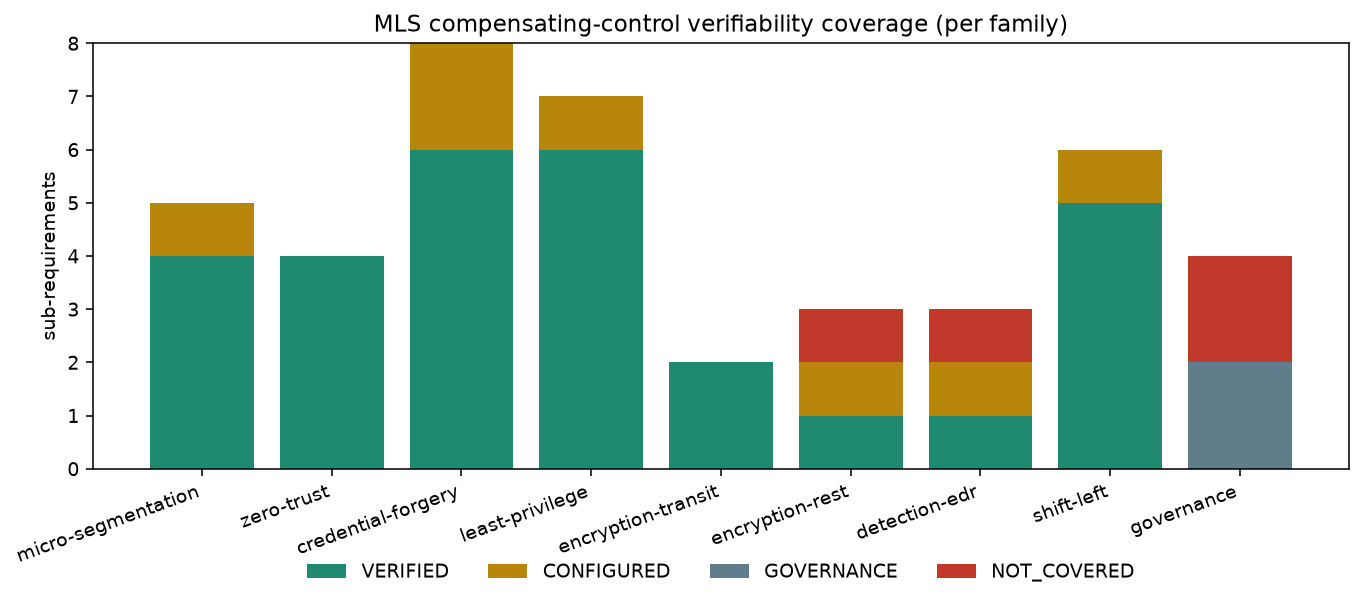
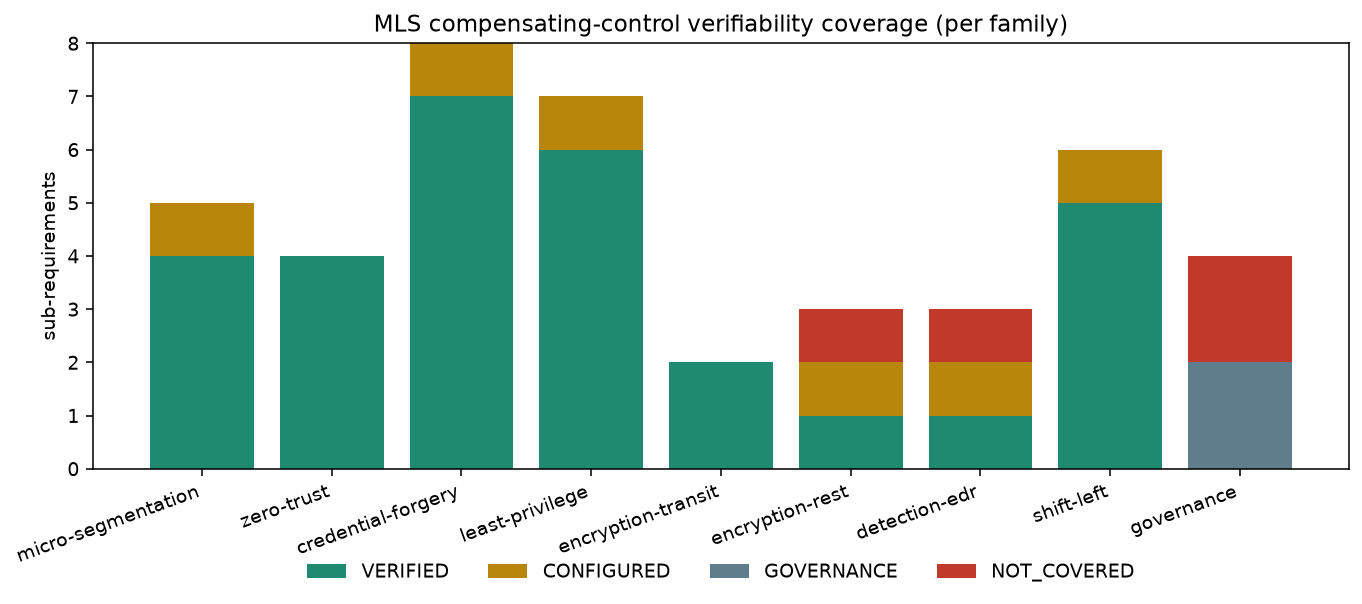
docs: propagate the 72%->75% headline across all surfaces (ID8 now VERIFIED)
Coordinated number ripple so nothing is left stale (the consistency bug class): 72%->75%,
29/40->30/40, 29/42=69%->30/42=71%, VERIFIED 29->30, CONFIGURED 7->6, gap 28%->25% — across
README, index, slides, the one-pager (HTML+PDF, bar width too), social-card (SVG+PNG, bar
width), why-trust-this, nhi, docs/README, evaluation-coverage, labs/m8, and the coverage.png
chart. evaluation-coverage keeps the progression history (65%->72%->75%). Verified by grep:
no stale 72%/29-40/CONFIGURED-7 remain (only the intentional history line). mkdocs --strict green.

Changed region(s): [[0.2775, 0.149, 0.4009, 0.2682]]

diff --git a/presentation/cloudsec-onepager.html b/presentation/cloudsec-onepager.html
@@ -90,13 +90,13 @@ footer{margin-top:52px;font:400 11.5px/1.7 var(--mono);color:var(--faint)}
   <hr>
 
   <div class="ledger">
-    <span class="k">coverage</span><span class="bar"><i style="width:72%"></i></span><span class="v">72%</span><span class="d">29/40 — 검증가능-as-code</span>
+    <span class="k">coverage</span><span class="bar"><i style="width:75%"></i></span><span class="v">75%</span><span class="d">30/40 — 검증가능-as-code</span>
     <span class="k">verify</span><span class="bar"><i style="width:100%"></i></span><span class="v">21/21</span><span class="d">라이브, 전 계층 enforcement</span>
     <span class="k">cedar</span><span class="bar"><i style="width:100%"></i></span><span class="v">8/8·17/17</span><span class="d">인가 + 에이전트 위임 (반증가능)</span>
     <span class="k">rebac</span><span class="bar"><i style="width:100%"></i></span><span class="v">11/11</span><span class="d">OpenFGA 관계 테스트</span>
     <span class="k">checkov</span><span class="bar"><i style="width:100%"></i></span><span class="v">452/0</span><span class="d">shift-left · 실 CVE 1건 포착→수정</span>
   </div>
-  <p class="note">// 21/21은 기능 회귀 스위트(분모 없는 측정 아님) · 갭 28%(CONFIGURED 7·GOVERNANCE 2·NOT-COVERED 4)는 행 단위 공개.</p>
+  <p class="note">// 21/21은 기능 회귀 스위트(분모 없는 측정 아님) · 갭 25%(CONFIGURED 6·GOVERNANCE 2·NOT-COVERED 4)는 행 단위 공개.</p>
 
   <hr>
 
@@ -111,7 +111,7 @@ footer{margin-top:52px;font:400 11.5px/1.7 var(--mono);color:var(--faint)}
     <p class="lead">"안전하다"가 아니라 — <span style="color:var(--acc)">갭을 공개한다.</span></p>
     <dl>
       <dt>재현 증거</dt><dd>감사자가 부작용 없는 dry-run으로 <b>직접</b> 거부/허용을 확인.</dd>
-      <dt>명시된 갭</dt><dd>미검증 28%를 행 단위로 공개 — 두루뭉술하지 않다.</dd>
+      <dt>명시된 갭</dt><dd>미검증 25%를 행 단위로 공개 — 두루뭉술하지 않다.</dd>
       <dt>정직성</dt><dd>요청자 JWT 미강제 행을 <b>스스로 추가해 헤드라인을 낮췄다</b> — 편한 숫자 대신 참값.</dd>
     </dl>
   </div>

diff --git a/docs/evaluation-coverage.md b/docs/evaluation-coverage.md
@@ -31,7 +31,7 @@
 
 **헤드라인 메트릭:**
 
-> ✅ **검증가능-as-code 커버리지:** **워크로드 적용가능 sub-requirement의 72% (29/40)** 가 코드로 검증된다. (거버넌스 포함 전체로는 29/42 = 69%.) 범주 분포: **VERIFIED 29 · CONFIGURED 7 · GOVERNANCE 2 · NOT-COVERED 4.**
+> ✅ **검증가능-as-code 커버리지:** **워크로드 적용가능 sub-requirement의 75% (30/40)** 가 코드로 검증된다. (거버넌스 포함 전체로는 30/42 = 71%.) 범주 분포: **VERIFIED 30 · CONFIGURED 6 · GOVERNANCE 2 · NOT-COVERED 4.**
 
 ![MLS verifiability coverage per family](assets/coverage.png)
 
@@ -52,10 +52,10 @@
 → 전체 Table 1(42행, sub-requirement→출처→범주→verify 라인/갭)은 [`mls-coverage.csv`](mls-coverage.csv).
 
 ## 논의 (정직한 갭이 곧 기여)
-- **VERIFIED 72%** 는 "워크로드 보상통제를 *어디까지 코드로 증명할 수 있는가*"의 정직한 상한에
+- **VERIFIED 75%** 는 "워크로드 보상통제를 *어디까지 코드로 증명할 수 있는가*"의 정직한 상한에
   가깝다 — 망·인가·런타임·암호화(전송 tcpdump 캡처 포함)는 증명되고, **데이터 거버넌스(C/S/O
   분류·DLP·SIEM)는 워크로드 계층 밖**이다. 이 경계를 수치로 보이는 것이 핵심.
-- **라이브 클러스터 세션 — ID6·ID7·SL6 승격으로 헤드라인 65%→72%.** kind+Cilium+Tetragon+Kyverno를
+- **라이브 클러스터 세션 — ID6·ID7·SL6 승격으로 헤드라인 65%→72%; 이후 ID8(JWT enforce 라이브, scripts/verify-jwt-enforce)로 72%→75%.** kind+Cilium+Tetragon+Kyverno를
   띄워 세 통제를 라이브로 증명했다: **ID6**(SA 토큰 미마운트 — web/api 토큰 경로 ABSENT + 3티어
   automount=false), **ID7**(Kyverno SA-use ClusterPolicy가 *다른* 네임스페이스에서 cross-ns DENY —
   `scripts/verify-kyverno`), **SL6**(Kyverno verifyImages가 cosign-signed→ADMIT / unsigned→DENY —
@@ -70,7 +70,7 @@
   분자는 그대로·분모만 +1이라 *그 단계에선 비율이 떨어졌다*(부풀리기의 반대). VERIFIED 승격 조건:
   Bearer 필수화 + `unauth→401`을 라이브 스위트에서 단언. 프로덕션 OAuth 2.1 RS/JWKS·RFC 8693 OBO는
   [authorization-model](authorization-model.md) 문서 매핑(doc-only).
-- **CONFIGURED 7** 은 "있지만 (라이브로) 증명 안 됨" — 가장 위험한 범주(감사 시 "있다"고 주장하나
+- **CONFIGURED 6** 은 "있지만 (라이브로) 증명 안 됨" — 가장 위험한 범주(감사 시 "있다"고 주장하나
   시행 미증명). 남은 타깃은 SPIFFE 시행 테스트(ID4)·etcd 키회전 자동화(ER2)·요청자 인증 라이브 강제(ID8).
 - **GOVERNANCE 2 / NOT-COVERED 4** — 남은 NOT_COVERED는 관리형 KMS/HSM(ER3)·광역 런타임룰(ED3)·
   DLP(GV3)·SIEM(GV4)으로 *이 레퍼런스의 범위 밖*이거나 전사 통제다. (직전까지 NOT_COVERED였던 ID7 SA-use

diff --git a/index.md b/index.md
@@ -8,7 +8,7 @@ hide:
 
 검증 가능한 다층보안(MLS) 보상통제를 코드로 — 한 요청이 신원·세분화·인가·암호화·탐지를 전부 통과해야 데이터에 닿고, 막힌다는 사실을 매번 라이브로 증명한다.
 
-[라이브 검증 21/21](docs/evaluation-coverage.md) · [검증가능 커버리지 72%](docs/evaluation-coverage.md) · [적대적 검증: CRITICAL 1 발견·수정](THREAT_MODEL.md) · 무료 로컬 $0
+[라이브 검증 21/21](docs/evaluation-coverage.md) · [검증가능 커버리지 75%](docs/evaluation-coverage.md) · [적대적 검증: CRITICAL 1 발견·수정](THREAT_MODEL.md) · 무료 로컬 $0
 
 [여기서 시작 — M0 재구현 (클러스터 불필요·Python만)](labs/m0/README.md) · [트랙 전체 보기](labs/README.md)
 
@@ -74,7 +74,7 @@ flowchart TB
 ## 기여 (contributions)
 
 - **규제 → 통제 매핑** — FSC 망분리 완화/MLS 보상통제 6종을 NIST SP 800-207·ISMS-P·검증 항목에 1:1 매핑. [→ MLS 매핑](docs/financial-mls-mapping.md)
-- **검증가능성 기준 + 커버리지 측정** — "각 규제 요구는 시행을 증명하는 실행 테스트에 대응돼야 한다"를 기준으로, MLS 보상통제의 72%가 코드로 검증가능함을 정량화(갭 공개). [→ 평가](docs/evaluation-coverage.md)
+- **검증가능성 기준 + 커버리지 측정** — "각 규제 요구는 시행을 증명하는 실행 테스트에 대응돼야 한다"를 기준으로, MLS 보상통제의 75%가 코드로 검증가능함을 정량화(갭 공개). [→ 평가](docs/evaluation-coverage.md)
 - **적대적 검증** — LLM 멀티에이전트 재검토가 자체 SA-use 정책의 실제 우회(CRITICAL)를 발견 → 수정 → 라이브 재검증. 잔여위험 명시.
 - **인가 흐름 정렬 + 프런티어** — RBAC+ABAC 하이브리드 · policy-as-code · 지속평가. AI-에이전트 위임(Cedar)·ReBAC(OpenFGA)을 실행 데모로 충족(NHI 생애주기 포함). [→ 인가 모델](docs/authorization-model.md)
 
@@ -84,7 +84,7 @@ flowchart TB
 
 | 항목 | 결과 |
 |------|------|
-| **검증가능성 커버리지 (정량 헤드라인)** | 워크로드 적용가능 MLS 보상통제 sub-requirement의 **72% (29/40)** 가 *코드로 검증* — 갭(CONFIGURED 7·NOT-COVERED 4·GOVERNANCE 2)을 정직하게 공개. [→ 평가](docs/evaluation-coverage.md) |
+| **검증가능성 커버리지 (정량 헤드라인)** | 워크로드 적용가능 MLS 보상통제 sub-requirement의 **75% (30/40)** 가 *코드로 검증* — 갭(CONFIGURED 6·NOT-COVERED 4·GOVERNANCE 2)을 정직하게 공개. [→ 평가](docs/evaluation-coverage.md) |
 | 라이브 방어심층 검증 (기능 회귀 스위트) | **21 / 21 PASS** — 차단/허용 enforcement 전부. WireGuard는 api/db를 다른 노드로 강제(podAntiAffinity)하고 tcpdump로 선상 WG 암호문(UDP/51871, 25s 윈도우) + 평문 0 확인(`scripts/capture-wg.sh`) |
 | Cedar 인가 단위테스트 | **8 / 8** (코어) · **17 / 17** AI-에이전트 위임(confused-deputy 차단 + ASI08 위임깊이 cap·홉별 클램프·출처 게이트; P2·P3·P5·P6·P7 mutation으로 반증가능) |
 | ReBAC 관계 테스트 (OpenFGA) | **11 / 11** `fga model test` + 라이브 `/check` 11/11 — 인가 모델의 ReBAC 갭을 실행으로 충족 |

diff --git a/presentation/slides.md b/presentation/slides.md
@@ -66,13 +66,13 @@ FSC 로드맵(2024-08-13): **위치 기반 분리 → 위험 기반 MLS**.
 
 | metric | | |
 |---|---|---|
-| coverage | 검증가능-as-code | 72% (29/40) |
+| coverage | 검증가능-as-code | 75% (30/40) |
 | verify | 라이브, 전 계층 | 21/21 |
 | cedar | 인가 + 에이전트 위임 | 8/8 · 17/17 |
 | rebac | OpenFGA 관계 | 11/11 |
 | checkov | shift-left · 실 CVE 포착 | 452 / 0 |
 
-<span class="mut mono" style="font-size:.7em">// 21/21은 기능 회귀 스위트(분모 없음) · 갭 28%(CONFIGURED 7·GOVERNANCE 2·NOT-COVERED 4)는 행 단위 공개</span>
+<span class="mut mono" style="font-size:.7em">// 21/21은 기능 회귀 스위트(분모 없음) · 갭 25%(CONFIGURED 6·GOVERNANCE 2·NOT-COVERED 4)는 행 단위 공개</span>
 
 ---
 
@@ -90,7 +90,7 @@ FSC 로드맵(2024-08-13): **위치 기반 분리 → 위험 기반 MLS**.
 <span class="mut">"안전하다"가 아니라 — </span>**갭을 공개한다.**
 
 - **재현 증거** — 감사자가 부작용 없는 dry-run으로 직접 확인
-- **명시된 갭** — 미검증 28%를 행 단위로 공개
+- **명시된 갭** — 미검증 25%를 행 단위로 공개
 - **정직성** — 요청자 JWT 미강제 행을 *스스로 추가해 헤드라인을 낮췄다* (편한 숫자 대신 참값)
 - **적대적 자기검증** — 우리 정책의 실 결함(SA-use CRITICAL)을 찾아 수정·재검증
 

diff --git a/docs/nhi.md b/docs/nhi.md
@@ -5,7 +5,7 @@
 > 추가하지 않는다.** 이미 검증된 통제를 **NHI 생애주기 6단계**(provision → authenticate →
 > authorize → rotate → detect → decommission)로 재조명하고, 각 항목을
 > [`mls-coverage.csv`](mls-coverage.csv)의 **기존 id와 그 라벨**(VERIFIED/CONFIGURED/NOT_COVERED)에
-> 그대로 연결한다. 헤드라인 72%(29/40)는 **이 문서로 인해 바뀌지 않는다** — 이 문서는 메트릭을 더하지 않고,
+> 그대로 연결한다. 헤드라인 75%(30/40)는 **이 문서로 인해 바뀌지 않는다** — 이 문서는 메트릭을 더하지 않고,
 > 같은 증거를 다른 렌즈로 본다.
 
 ## NHI란, 그리고 왜 2024–2026의 핵심인가
@@ -73,7 +73,7 @@ AI 에이전트도 NHI다. 자세한 모델은 [`authorization-model.md` §4·§
 
 ## 평가 분석과의 연결 (새 메트릭 없음)
 
-이 문서는 **CSV에 행을 더하지 않고, 헤드라인 72%(29/40)를 이 문서로 인해 바꾸지 않는다.** 위 표의 모든 id
+이 문서는 **CSV에 행을 더하지 않고, 헤드라인 75%(30/40)를 이 문서로 인해 바꾸지 않는다.** 위 표의 모든 id
 (ID1–ID6, NS3·NS4, ZT1–ZT3, LP1–LP6, ED1–ED3, ER2)는 이미 [`mls-coverage.csv`](mls-coverage.csv)에
 *그 범주 그대로* 존재한다. NHI 렌즈는 **이미 검증된 증거 위에 올라탄다** — 증거를 부풀리지 않는다.
 이 불변성 자체가 정직성의 보증이다(`python scripts/coverage.py` 출력은 이 문서로 인해 변하지 않는다).

diff --git a/labs/m8/README.md b/labs/m8/README.md
@@ -9,7 +9,7 @@
 
 **미션:** M4의 `block-shell-in-data-tier`(execve kprobe → Sigkill, `tier: data`)는 셸 실행을 **실제로 막는다**.
 M8은 묻는다 — *어디까지* 막나? 언제 막나? 못 막는 건 뭔가? 그걸 **라이브로 측정**해 통제를 정확히 라벨한다.
-**메트릭은 변하지 않는다(72% 그대로):** M8은 통제를 더하거나 빼는 게 아니라 *기존 통제의 가장자리를 측정*한다 —
+**메트릭은 변하지 않는다(75% 그대로):** M8은 통제를 더하거나 빼는 게 아니라 *기존 통제의 가장자리를 측정*한다 —
 그걸 명시하는 것 자체가 정직한 결과다. ED1("runtime shell-exec kill")은 **VERIFIED 그대로**.
 
 > 🎯 **학습 성과:** 런타임 kill의 정직한 경계를 *라이브로 측정*해 설명할 수 있다 — detection≠prevention, execve(pre-image-load) vs I/O(write window), 그리고 io_uring에 blind한 건 *기본 syscall 정책*이고 LSM/KRSI가 해법이라는 것.
@@ -106,7 +106,7 @@ kubectl exec db -n shop -- id                     # -> rc=137 (정책 kill)
 - [ ] **B:** 실제 결과 보고(예상: marker 없음/쓰기 불가) + readOnlyRootFS 이중차단 이해
 - [ ] **C:** write-window를 측정(`bytes>0`) **또는** 정직한 SKIP + "synchronous-process-kill ≠ pre-operation"과 Sigkill vs +Override 설명
 - [ ] **D:** 비셸 exec + 파일 읽기 생존 확인 + io_uring/BPF-LSM(KRSI)을 robust 훅으로 지목
-- [ ] 헤드라인이 **왜 안 변하나**(72%) 설명 — M8은 통제 가감이 아니라 가장자리 측정
+- [ ] 헤드라인이 **왜 안 변하나**(75%) 설명 — M8은 통제 가감이 아니라 가장자리 측정
 
 ## 구두 문답
 1. <details><summary>execve+Sigkill은 prevention-grade인데 write+Sigkill은 왜 detection-grade?</summary>execve는 새 이미지 load *이전*에 죽어 셸 코드가 실행되지 않음(pre-image-load). write()는 프로세스를 동기적으로 죽여도 커널이 이미 바이트를 기록했을 수 있음. prevention-grade로 만들려면 Sigkill+Override.</details>

diff --git a/README.md b/README.md
@@ -110,7 +110,7 @@ python formal/cross_layer.py --open-auditlogs  # 반증: L7 경로를 열면 sha
 - `scripts/verify.sh` — kind + Cilium + Tetragon에서 라이브 검증 21/21 (로컬·CI 공통).
 - Cedar — 코어 인가 8/8, 에이전트 위임 17/17 (confused-deputy + ASI08 위임깊이 cap·홉별 클램프·출처 게이트). ReBAC — 11/11 (`fga model test`).
 - checkov — 452 pass / 0 fail / 5건 문서화된 skip.
-- MLS 검증가능성 커버리지 — 72% (29/40); 갭은 [`docs/mls-coverage.csv`](docs/mls-coverage.csv)에 공개.
+- MLS 검증가능성 커버리지 — 75% (30/40); 갭은 [`docs/mls-coverage.csv`](docs/mls-coverage.csv)에 공개.
 
 계층별 상세·검증 노트·로드맵은 [`docs/`](docs/)에 있습니다(로컬에서 `pip install -r requirements-docs.txt && mkdocs serve`로 사이트로도 볼 수 있음).
 

diff --git a/docs/README.md b/docs/README.md
@@ -8,7 +8,7 @@ payoff *before* asking you to install more. Defensive/infra only.
 > 망분리 개선 로드맵」(2024-08-13)의 다층보안(MLS) 보상통제에 각 통제를 1:1 매핑하고
 > NIST 800-207·검증 항목까지 연결한다. *(교육·포트폴리오 목적 — 법률/금융 자문도, 공식 FSC 컴플라이언스 매핑도 아니다. 규제 세부는 1차 출처 대조 필요.)*
 >
-> **정량 평가:** **[검증가능성 커버리지 분석](evaluation-coverage.md)**(MLS 보상통제의 72%가 코드로
+> **정량 평가:** **[검증가능성 커버리지 분석](evaluation-coverage.md)**(MLS 보상통제의 75%가 코드로
 > 검증가능 — 갭 공개) · **감사 적용:** **[감사증거 패키지 예시](audit-evidence.md)**(1통제를 기준·산출물·
 > 증거·재현명령까지).
 >